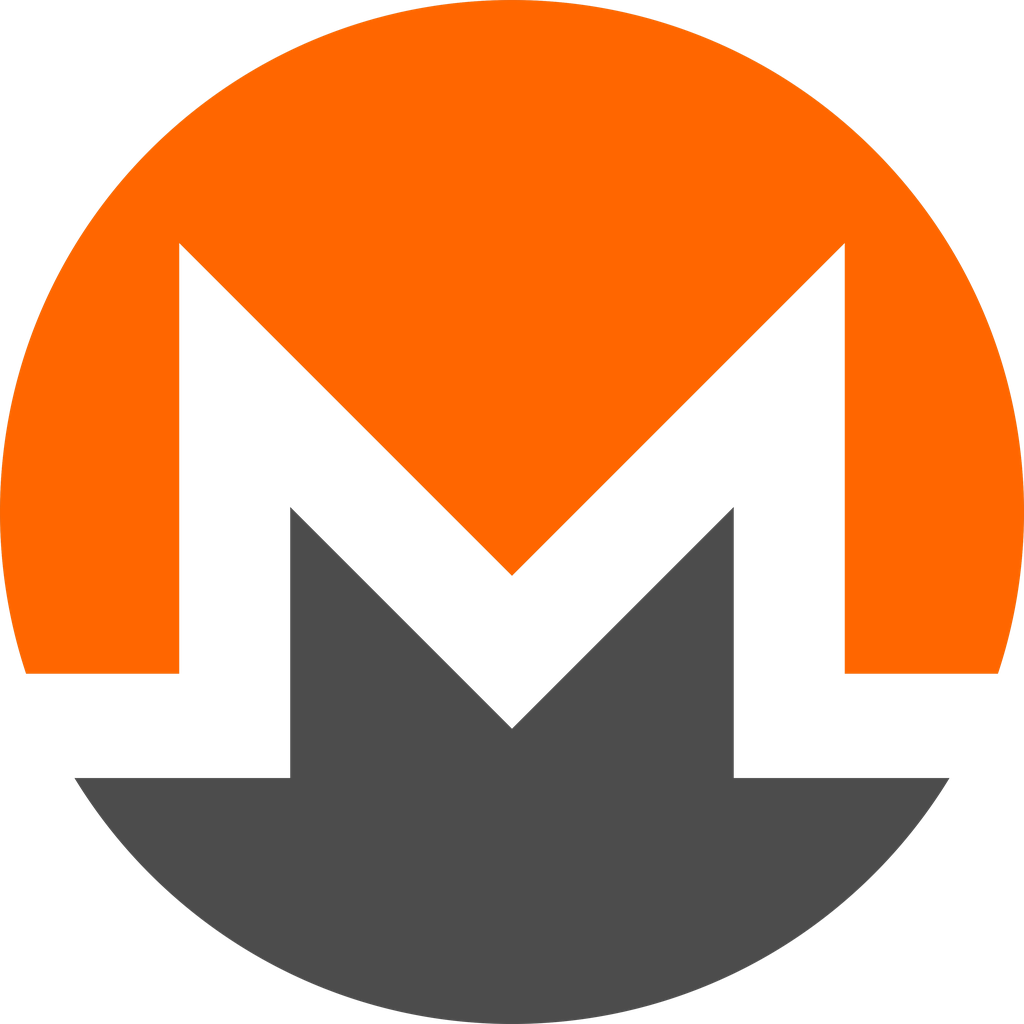
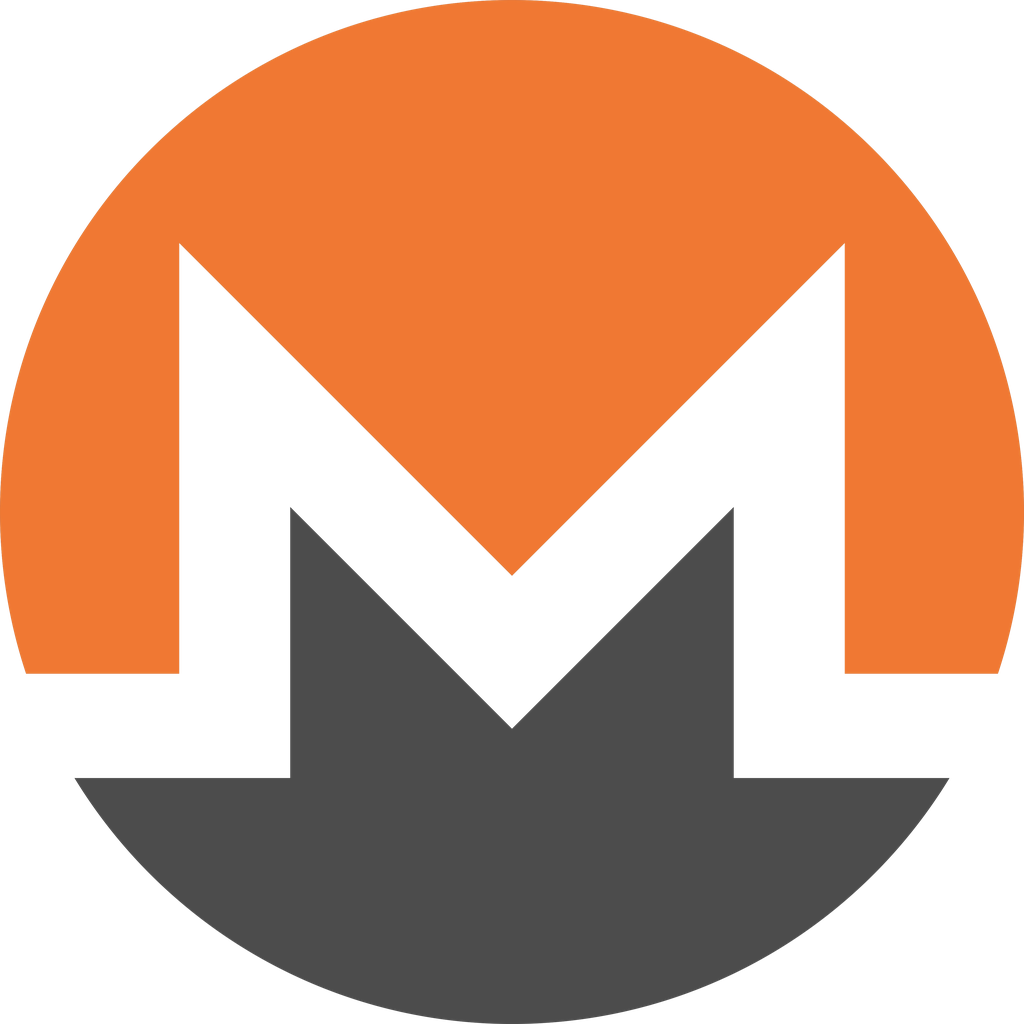
Include latest iOS brand preview refinements

diff --git a/MoneroOne/Shared/Components/AnimatedMoneroLogo.swift b/MoneroOne/Shared/Components/AnimatedMoneroLogo.swift
@@ -1,3 +1,4 @@
+import QuartzCore
 import SwiftUI
 
 struct AnimatedMoneroLogo: View {
@@ -7,6 +8,9 @@ struct AnimatedMoneroLogo: View {
     @State private var floating = false
 
     var size: CGFloat = 240
+
+    private static let floatCurve = Animation.easeInOut(duration: 2.5).repeatForever(autoreverses: true)
+    private static let shineCurve = Animation.easeInOut(duration: 1.2)
 
     private var imageName: String {
         colorScheme == .dark ? "MoneroSymbolDark" : "MoneroSymbol"
@@ -38,10 +42,12 @@ struct AnimatedMoneroLogo: View {
                         .frame(width: geo.size.width * 0.35)
                         .blur(radius: 8)
                         .offset(x: shineOffset * geo.size.width)
+                        .animation(Self.shineCurve, value: shineOffset)
                     }
                     .clipShape(Circle())
                 }
                 .offset(y: floating ? -10 : 10)
+                .animation(Self.floatCurve, value: floating)
 
             // Orange glow below - stronger when logo is down
             Ellipse()
@@ -50,6 +56,7 @@ struct AnimatedMoneroLogo: View {
                 .blur(radius: 25)
                 .opacity(floating ? 0.2 : 0.6)
                 .scaleEffect(x: floating ? 0.75 : 1.1)
+                .animation(Self.floatCurve, value: floating)
                 .offset(y: -20)
         }
         .scaleEffect(appeared ? 1.0 : 0.4)
@@ -60,22 +67,28 @@ struct AnimatedMoneroLogo: View {
                 appeared = true
             }
 
-            // Shine sweep
-            DispatchQueue.main.asyncAfter(deadline: .now() + 0.6) {
-                withAnimation(.easeInOut(duration: 1.2)) {
-                    shineOffset = 1.5
-                }
-            }
+            // Float and shine. These state changes carry no transaction
+            // animation: each curve sits on the logo's own modifiers above,
+            // through .animation(_:value:). A global
+            // withAnimation(repeatForever) here leaked into the PIN
+            // keyboard's layout change on a cold launch, and the whole
+            // unlock screen then floated with the logo.
+            Self.afterOnScreenTime(0.3) { floating = true }
+            Self.afterOnScreenTime(0.6) { shineOffset = 1.5 }
+        }
+    }
 
-            // Floating animation
-            DispatchQueue.main.asyncAfter(deadline: .now() + 0.3) {
-                withAnimation(
-                    .easeInOut(duration: 2.5)
-                    .repeatForever(autoreverses: true)
-                ) {
-                    floating = true
-                }
-            }
+    /// Runs `action` after `delay` seconds of on-screen time. It waits in
+    /// short main-queue steps and counts each step as 0.1 s at most, so a
+    /// main-thread stall does not count. On a cold launch the first keyboard
+    /// load stalls the main thread for about 0.6 s while the logo is still
+    /// hidden; with a plain asyncAfter the shine then ran as soon as the
+    /// logo came into view.
+    private static func afterOnScreenTime(_ delay: TimeInterval, _ action: @escaping () -> Void) {
+        guard delay > 0 else { return action() }
+        let start = CACurrentMediaTime()
+        DispatchQueue.main.asyncAfter(deadline: .now() + min(delay, 0.05)) {
+            afterOnScreenTime(delay - min(CACurrentMediaTime() - start, 0.1), action)
         }
     }
 }

diff --git a/MoneroOneWidgets/PriceWidget.swift b/MoneroOneWidgets/PriceWidget.swift
@@ -93,10 +93,13 @@ struct PriceWidgetView: View {
 
     private var noDataView: some View {
         VStack(spacing: 8) {
-            Image("MoneroMark")
+            Image("MoneroSymbol")
                 .resizable()
-                .scaledToFit()
+                .scaledToFill()
                 .frame(width: 32, height: 32)
+                .clipShape(Circle())
+                .scaleEffect(1.15)
+                .clipShape(Circle())
 
             Text("XMR Price")
                 .font(.headline.weight(.semibold))
@@ -113,10 +116,13 @@ struct PriceWidgetView: View {
     private var smallView: some View {
         VStack(alignment: .leading, spacing: 0) {
             // Logo
-            Image("MoneroMark")
+            Image("MoneroSymbol")
                 .resizable()
-                .scaledToFit()
+                .scaledToFill()
                 .frame(width: 36, height: 36)
+                .clipShape(Circle())
+                .scaleEffect(1.15)
+                .clipShape(Circle())
 
             // Name
             Text("Monero")
@@ -151,10 +157,13 @@ struct PriceWidgetView: View {
             // Left side - Price info
             VStack(alignment: .leading, spacing: 4) {
                 HStack(spacing: 6) {
-                    Image("MoneroMark")
+                    Image("MoneroSymbol")
                         .resizable()
-                        .scaledToFit()
+                        .scaledToFill()
                         .frame(width: 24, height: 24)
+                        .clipShape(Circle())
+                        .scaleEffect(1.15)
+                        .clipShape(Circle())
 
                     Text("Monero")
                         .font(.subheadline.weight(.semibold))
@@ -214,10 +223,13 @@ struct PriceWidgetView: View {
         VStack(alignment: .leading, spacing: 10) {
             // Header
             HStack {
-                Image("MoneroMark")
+                Image("MoneroSymbol")
                     .resizable()
-                    .scaledToFit()
+                    .scaledToFill()
                     .frame(width: 28, height: 28)
+                    .clipShape(Circle())
+                    .scaleEffect(1.15)
+                    .clipShape(Circle())
 
                 VStack(alignment: .leading, spacing: 2) {
                     Text("Monero")

diff --git a/MoneroOneWidgets/TransactionsWidget.swift b/MoneroOneWidgets/TransactionsWidget.swift
@@ -73,10 +73,13 @@ struct TransactionsWidgetView: View {
 
     private var disabledView: some View {
         VStack(spacing: 8) {
-            Image("MoneroMark")
+            Image("MoneroSymbol")
                 .resizable()
-                .scaledToFit()
+                .scaledToFill()
                 .frame(width: 32, height: 32)
+                .clipShape(Circle())
+                .scaleEffect(1.15)
+                .clipShape(Circle())
 
             Text("Monero One")
                 .font(.headline.weight(.semibold))
@@ -91,10 +94,13 @@ struct TransactionsWidgetView: View {
         VStack(alignment: .leading, spacing: 6) {
             // Header with balance
             HStack {
-                Image("MoneroMark")
+                Image("MoneroSymbol")
                     .resizable()
-                    .scaledToFit()
+                    .scaledToFill()
                     .frame(width: 22, height: 22)
+                    .clipShape(Circle())
+                    .scaleEffect(1.15)
+                    .clipShape(Circle())
 
                 VStack(alignment: .leading, spacing: 0) {
                     Text(entry.data.balanceFormatted)
@@ -152,10 +158,13 @@ struct TransactionsWidgetView: View {
         VStack(alignment: .leading, spacing: 10) {
             // Header
             HStack {
-                Image("MoneroMark")
+                Image("MoneroSymbol")
                     .resizable()
-                    .scaledToFit()
+                    .scaledToFill()
                     .frame(width: 28, height: 28)
+                    .clipShape(Circle())
+                    .scaleEffect(1.15)
+                    .clipShape(Circle())
 
                 VStack(alignment: .leading, spacing: 2) {
                     HStack {

diff --git a/MoneroOneWidgets/BalanceWidget.swift b/MoneroOneWidgets/BalanceWidget.swift
@@ -73,10 +73,13 @@ struct BalanceWidgetView: View {
 
     private var disabledView: some View {
         VStack(spacing: 8) {
-            Image("MoneroMark")
+            Image("MoneroSymbol")
                 .resizable()
-                .scaledToFit()
+                .scaledToFill()
                 .frame(width: 32, height: 32)
+                .clipShape(Circle())
+                .scaleEffect(1.15)
+                .clipShape(Circle())
 
             Text("Monero One")
                 .font(.headline.weight(.semibold))
@@ -91,10 +94,13 @@ struct BalanceWidgetView: View {
         VStack(alignment: .leading, spacing: 6) {
             // Header
             HStack {
-                Image("MoneroMark")
+                Image("MoneroSymbol")
                     .resizable()
-                    .scaledToFit()
+                    .scaledToFill()
                     .frame(width: 22, height: 22)
+                    .clipShape(Circle())
+                    .scaleEffect(1.15)
+                    .clipShape(Circle())
 
                 Spacer()
 
@@ -136,10 +142,13 @@ struct BalanceWidgetView: View {
             // Left side - Balance
             VStack(alignment: .leading, spacing: 6) {
                 HStack(spacing: 8) {
-                    Image("MoneroMark")
+                    Image("MoneroSymbol")
                         .resizable()
-                        .scaledToFit()
+                        .scaledToFill()
                         .frame(width: 26, height: 26)
+                        .clipShape(Circle())
+                        .scaleEffect(1.15)
+                        .clipShape(Circle())
 
                     Text("Monero One")
                         .font(.subheadline.weight(.semibold))

diff --git a/Shared/BrandColors.swift b/Shared/BrandColors.swift
@@ -3,9 +3,11 @@ import UIKit
 
 /// Monero One brand orange, `color.brand` in the design tokens
 /// (monero-one-brand/tokens/tokens.json). It is the one action color:
-/// buttons, links, selection, progress and pending states. It is #FF6600
-/// in light and dark mode. Increase Contrast makes it darker on light
-/// backgrounds and lighter on dark ones. Use it in place of system orange,
+/// buttons, links, selection, progress and pending states. It is the orange
+/// of the glass logo art (MoneroSymbol), in Display P3 like the art:
+/// #F17F38 in light mode and #DC692A in dark mode (the dark art is darker).
+/// Increase Contrast makes it darker on light backgrounds and lighter on
+/// dark ones. Use it in place of system orange,
 /// which changes with the iOS version (#FF9500, then #FF8D28 on iOS 26).
 extension UIColor {
     static let brand = UIColor { traits in
@@ -14,7 +16,9 @@ extension UIColor {
                 ? UIColor(red: 1, green: 0x85 / 255, blue: 0x33 / 255, alpha: 1)  // #FF8533
                 : UIColor(red: 0xC4 / 255, green: 0x4D / 255, blue: 0, alpha: 1) // #C44D00
         }
-        return UIColor(red: 1, green: 0x66 / 255, blue: 0, alpha: 1) // #FF6600
+        return traits.userInterfaceStyle == .dark
+            ? UIColor(displayP3Red: 0xDC / 255, green: 0x69 / 255, blue: 0x2A / 255, alpha: 1) // P3 #DC692A
+            : UIColor(displayP3Red: 0xF1 / 255, green: 0x7F / 255, blue: 0x38 / 255, alpha: 1) // P3 #F17F38
     }
 }
 

diff --git a/MoneroOneWidgets/SyncLiveActivity.swift b/MoneroOneWidgets/SyncLiveActivity.swift
@@ -11,7 +11,7 @@ struct SyncLiveActivity: Widget {
             DynamicIsland {
                 // Expanded UI
                 DynamicIslandExpandedRegion(.leading) {
-                    Image("MoneroMark")
+                    Image("MoneroSymbol")
                         .resizable()
                         .aspectRatio(contentMode: .fit)
                         .frame(width: 28, height: 28)
@@ -95,10 +95,11 @@ struct SyncLiveActivity: Widget {
                     }
                 }
             } compactLeading: {
-                Image("MoneroMark")
+                Image("MoneroSymbol")
                     .resizable()
                     .aspectRatio(contentMode: .fit)
                     .frame(width: 18, height: 18)
+                    .clipShape(Circle())
             } compactTrailing: {
                 if context.state.isBlocked {
                     Image(systemName: "location.slash")
@@ -159,7 +160,7 @@ struct LockScreenView: View {
     var body: some View {
         HStack(spacing: 16) {
             // Monero logo
-            Image("MoneroMark")
+            Image("MoneroSymbol")
                 .resizable()
                 .aspectRatio(contentMode: .fit)
                 .frame(width: 44, height: 44)

diff --git a/MoneroOne/Features/Receive/QRCodeView.swift b/MoneroOne/Features/Receive/QRCodeView.swift
@@ -26,7 +26,7 @@ struct QRCodeView: View {
                 // of the mark's edge and the code scans as before.
                 if showLogo {
                     let plateSize = size * 0.22
-                    Image("MoneroMark")
+                    Image("MoneroLogo")
                         .resizable()
                         .scaledToFit()
                         .padding(plateSize * 0.1)
@@ -532,7 +532,7 @@ struct QRFocusView: View {
     /// own started them a beat late, a second motion inside the first.
     private var lockup: some View {
         HStack(spacing: 8) {
-            Image("MoneroMark")
+            Image("MoneroLogo")
                 .resizable()
                 .scaledToFit()
                 .frame(width: Self.lockupHeight, height: Self.lockupHeight)

diff --git a/MoneroOne/Features/Wallet/BalanceCard.swift b/MoneroOne/Features/Wallet/BalanceCard.swift
@@ -206,10 +206,13 @@ struct BalanceCard: View {
             }
 
             HStack(spacing: 16) {
-                Image("MoneroMark")
+                Image("MoneroSymbol")
                     .resizable()
-                    .scaledToFit()
+                    .scaledToFill()
                     .frame(width: 48, height: 48)
+                    .clipShape(Circle())
+                    .scaleEffect(1.15)
+                    .clipShape(Circle())
                     .accessibilityHidden(true)
 
                 VStack(alignment: .leading, spacing: 4) {
